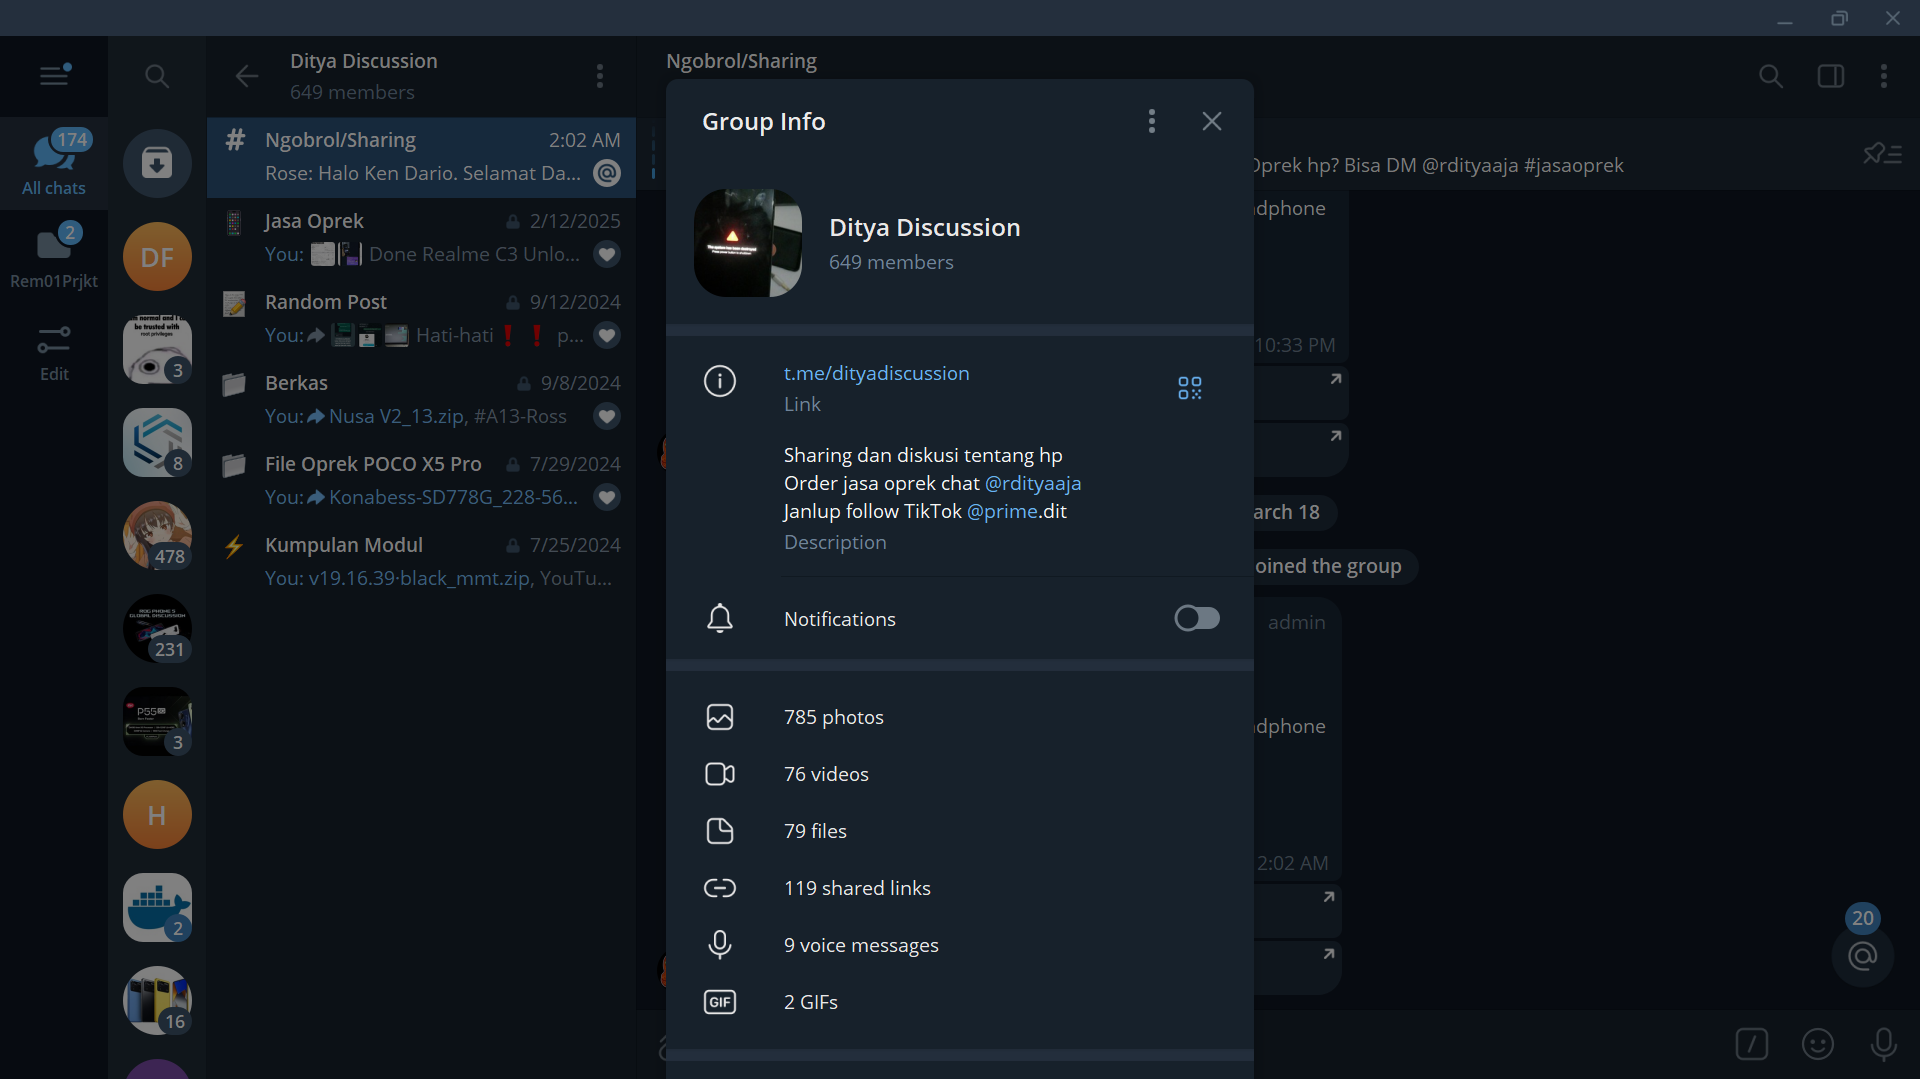
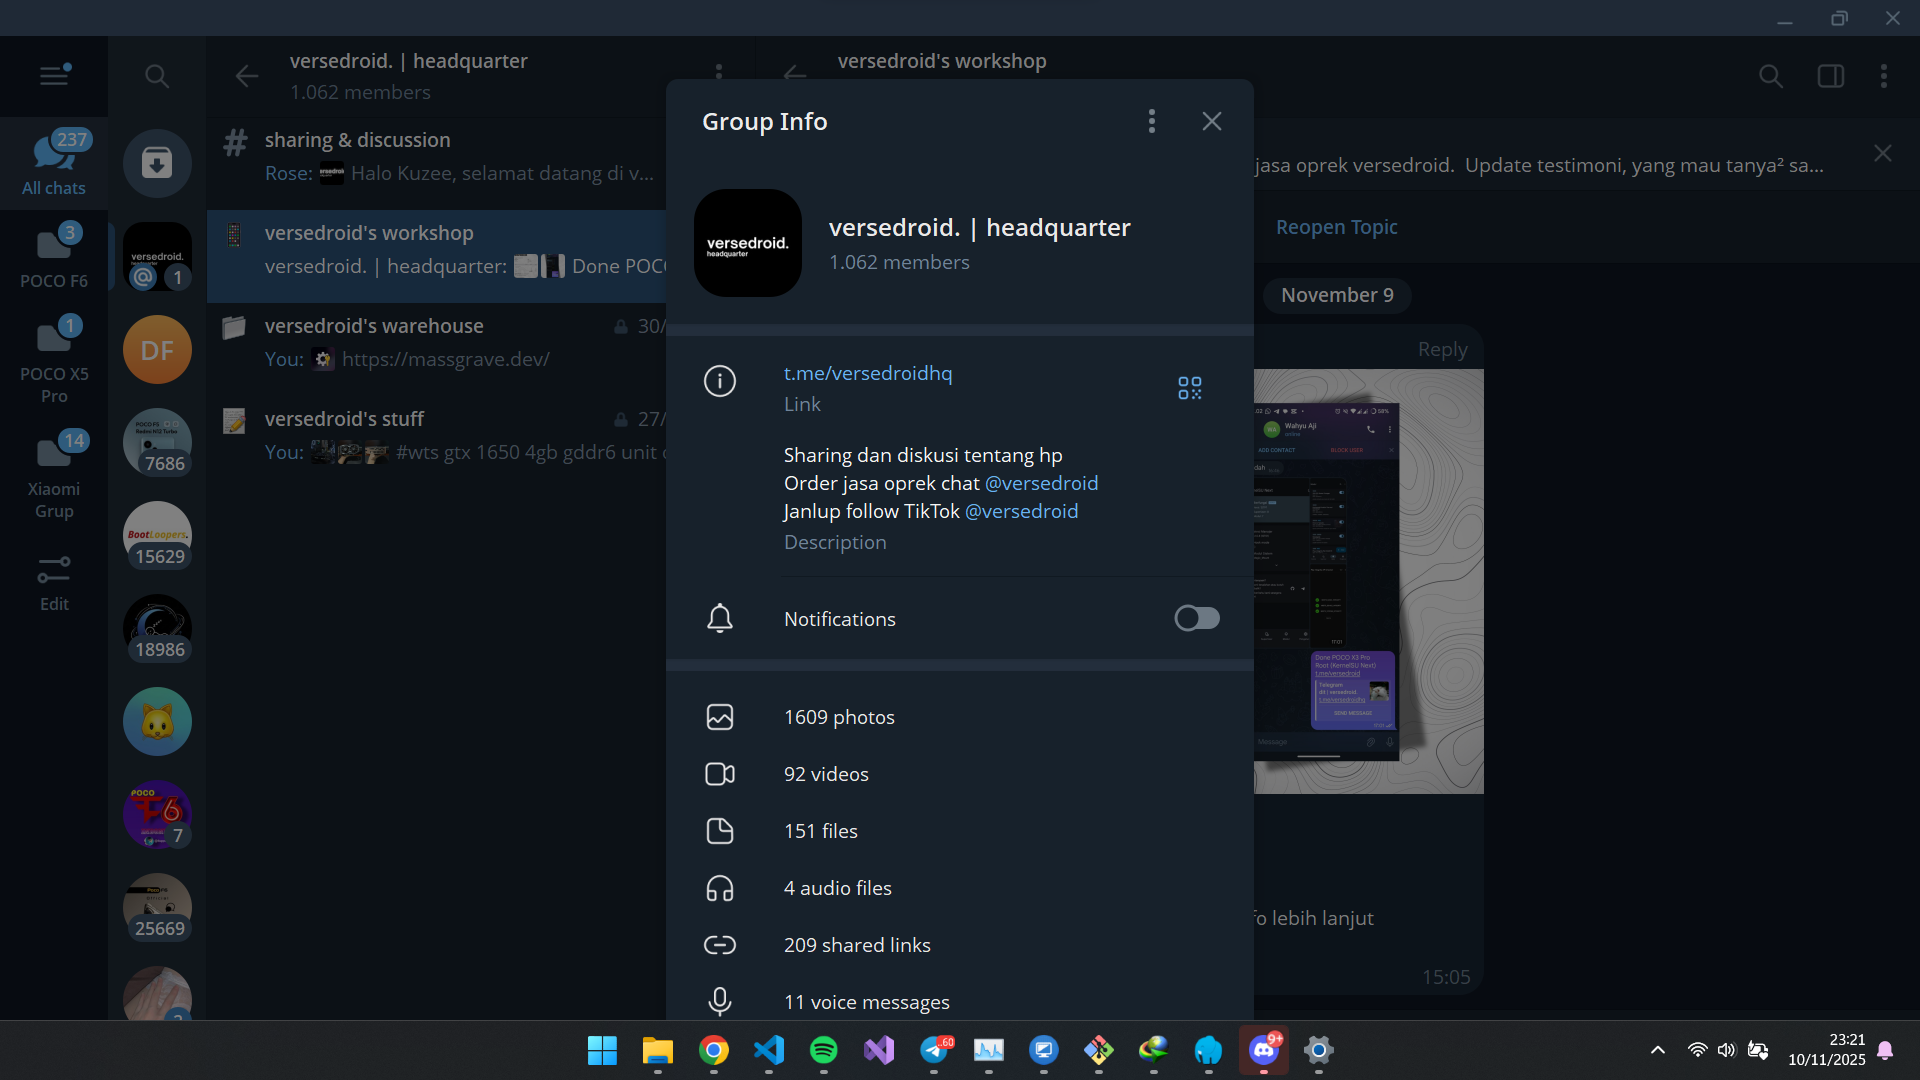
refresh and update

diff --git a/index.html b/index.html
@@ -129,10 +129,10 @@
     <div class="container">
       <div class="flex flex-wrap">
       <div class="w-full self-center px-4">
-          <h1 class="text-xl font-semibold text-indigo-500">Hai Dunia, Saya <span class="text-slate-900 block font-semibold text-5xl mt-1 dark:text-white">Raditya Rizki</span></h1>
-          <h2 class="font-medium text-slate-500 text-lg mb-5 dark:text-slate-500">Mahasiswa | It Implementor | Junior Web Programming</h2>
-          <p class="font-medium text-indigo-400 mb-10 leading-relaxed md:w-1/2">Seseorang yang memiliki minat berkembang di Dunia IT, mari kita bersama-sama belajar dan sharing biar dapet pengalaman baru!</p>
-          <a class="text-base font-semibold text-white bg-indigo-600 py-3 px-8 rounded-full hover:shadow-lg hover:bg-indigo-800 hover:opacity-80 transition duration-300 ease-in-out" href="https://drive.google.com/file/d/1nRiV1oQEp-QKF4ymBJFxlzevyDCtdr5y/view">Download CV!</a>
+          <h1 class="text-xl font-semibold text-indigo-500">Hello World, im <span class="text-slate-900 block font-semibold text-5xl mt-1 dark:text-white">Raditya Rizki Raharja</span></h1>
+          <h2 class="font-medium text-slate-500 text-lg mb-5 dark:text-slate-500">Mahasiswa | Networking | Programming</h2>
+          <p class="font-medium text-indigo-400 mb-10 leading-relaxed md:w-1/2">Seseorang yang memiliki minat berkembang di Dunia Teknologi Informasi , mari kita bersama-sama belajar dan sharing biar dapet pengalaman baru!</p>
+          <a class="text-base font-semibold text-white bg-indigo-600 py-3 px-8 rounded-full hover:shadow-lg hover:bg-indigo-800 hover:opacity-80 transition duration-300 ease-in-out" href="#">GitHub Saya!</a>
     </div>
   
     <!-- About Section -->
@@ -141,7 +141,7 @@
         <div class="flex flex-wrap">
           <div class="w-full px-4 mb-10 lg:w-1/2">
             <h4 class="mb-2 font-bold text-3xl dark:text-white">Tentang Saya</h4>
-            <p class="font-medium text-indigo-500">Hai! Saya Raditya Rizki saya merupakan orang yang baru terjun di dunia IT sebagai IT Implementor dan Web Programming, status saya sebagai Mahasiswa ULBI Prodi D4 Teknik Informatika</p>
+            <p class="font-medium text-indigo-500">Hai! Saya Raditya Rizki saya merupakan orang yang baru terjun di dunia Teknologi Informasi, status saya sebagai Mahasiswa ULBI Prodi D4 Teknik Informatika</p>
           </div>
           <div class="w-full px-4 lg:w-1/2">
             <h3 class="font-bold text-3xl mb-2 lg:text-3xl dark:text-white">Ikuti Saya Disini!</h3>
@@ -158,7 +158,7 @@
               </a>
 
               <!-- Logo Telegram -->
-              <a href="https://t.me/dityadiscussion" target="_blank" class="w-10 h-10 mr-3 rounded-full flex justify-center items-center border border-slate-700 text-indigo-300 dark:bg-slate-700 dark:border-none"> 
+              <a href="https://t.me/versedroid" target="_blank" class="w-10 h-10 mr-3 rounded-full flex justify-center items-center border border-slate-700 text-indigo-300 dark:bg-slate-700 dark:border-none"> 
                 <svg role="img" class="dark:fill-white" width="27px" viewBox="0 0 24 24" xmlns="http://www.w3.org/2000/svg"><title>Telegram</title><path d="M11.944 0A12 12 0 0 0 0 12a12 12 0 0 0 12 12 12 12 0 0 0 12-12A12 12 0 0 0 12 0a12 12 0 0 0-.056 0zm4.962 7.224c.1-.002.321.023.465.14a.506.506 0 0 1 .171.325c.016.093.036.306.02.472-.18 1.898-.962 6.502-1.36 8.627-.168.9-.499 1.201-.82 1.23-.696.065-1.225-.46-1.9-.902-1.056-.693-1.653-1.124-2.678-1.8-1.185-.78-.417-1.21.258-1.91.177-.184 3.247-2.977 3.307-3.23.007-.032.014-.15-.056-.212s-.174-.041-.249-.024c-.106.024-1.793 1.14-5.061 3.345-.48.33-.913.49-1.302.48-.428-.008-1.252-.241-1.865-.44-.752-.245-1.349-.374-1.297-.789.027-.216.325-.437.893-.663 3.498-1.524 5.83-2.529 6.998-3.014 3.332-1.386 4.025-1.627 4.476-1.635z"/></svg>
               </a>
             </div>
@@ -185,7 +185,7 @@
         <h3 class="font-semibold text-xl text-slate-900 dark:text-white mt-5 mb-3">
           Duck vs Obstacles Games
         </h3>
-        <p class="font-medium text-base text-indigo-500">Membuat menggunakan Bahasa pemrogamman Java dan menggunakan framework Greenfoot. Tersedia di Playstore dan <a class="text-black font-semibold" href="https://github.com/rdityaa/ducks-vs-obstacles_Greenfoot-Game" target="_blank">GitHub source code</a></span><a class="font-semibold block px-4 py-2 mt-6 rounded-full bg bg-indigo-600 text-white w-full mx-auto text-center" href="https://play.google.com/store/apps/details?id=com.kxland.ductjoy&pcampaignid=web_share" target="_blank">Download di Playstore!</a>
+        <p class="font-medium text-base text-indigo-500">Membuat menggunakan Bahasa pemrogamman Java dan menggunakan framework Greenfoot. Tersedia di Playstore dan <a class="text-black font-semibold" href="https://github.com/ditlabs/ducks-vs-obstacles_Greenfoot-Game" target="_blank">GitHub source code</a></span><a class="font-semibold block px-4 py-2 mt-6 rounded-full bg bg-indigo-600 text-white w-full mx-auto text-center" href="https://play.google.com/store/apps/details?id=com.kxland.ductjoy&pcampaignid=web_share" target="_blank">Download di Playstore!</a>
       </div>
       <div class="mb-12 p-4 md:w-1/2">
         <div class="rounded-md shadow-md overflow-hidden">
@@ -203,16 +203,16 @@
         <h3 class="font-semibold text-xl text-slate-900 dark:text-white mt-5 mb-3">
           E-Commerce Website
         </h3>
-        <p class="font-medium text-base text-indigo-500">Membuat aplikasi PHP dengan Framework Laravel, AlpineJS, TailwindCSS bertema E-Commerce sederhana tentang toko komputer<a class="font-semibold block px-4 py-2 mt-6 rounded-full bg bg-indigo-600 text-white w-full mx-auto text-center" href="https://github.com/rdityaa/Tugas-Besar-E-commerce-CRUD" target="_blank">Source Code</a></p>
+        <p class="font-medium text-base text-indigo-500">Membuat aplikasi PHP dengan Framework Laravel, AlpineJS, TailwindCSS bertema E-Commerce sederhana tentang toko komputer<a class="font-semibold block px-4 py-2 mt-6 rounded-full bg bg-indigo-600 text-white w-full mx-auto text-center" href="https://github.com/ditlabs/Tugas-Besar-E-commerce-CRUD" target="_blank">Source Code</a></p>
       </div>
       <div class="mb-12 p-4 md:w-1/2">
         <div class="rounded-md shadow-md overflow-hidden">
           <img src="img/image.png" alt="" class="w-full">
         </div>
-        <h3 class="font-semibold text-xl text-slate-900 dark:text-white mt-8 mb-3">
-          Profile Web Design
+        <h3 class="font-semibold text-xl text-slate-900 dark:text-white mt-6 mb-3">
+          Android Services Web-Application
         </h3>
-        <p class="font-medium text-base text-indigo-500">Membuat Website profile yang berisi tentang pribadi dengan HTML, CSS dan Framework CSS Boostrap 5<a class="font-semibold block px-4 py-2 mt-6 rounded-full bg bg-indigo-600 text-white w-full mx-auto text-center" href="https://github.com/rdityaa/rditya.github.io" target="_blank">Source Code</a></p>
+        <p class="font-medium text-base text-indigo-500">Membuat Aplikasi Penyedia jasa Modding Android Berbasis Web dengan Laravel 12<a class="font-semibold block px-4 py-2 mt-6 rounded-full bg bg-indigo-600 text-white w-full mx-auto text-center" href="https://github.com/ditlabs/new-project-1" target="_blank">Source Code</a></p>
       </div>
       </div>
      </section>
@@ -222,8 +222,8 @@
       <div class="container">
         <div class="w-full">
           <div class="mx-auto mb-16 max-w-xl text-center">
-            <h4 class="text-4xl font-semibold mb-2 dark:text-white">Keterampilan</h4>
-            <p class="text-indigo-600 dark:text-indigo-500">Berikut adalah Keterampilan Tools, Framework dan Bahasa Pemrogamman saya</p>
+            <h4 class="text-4xl font-semibold mb-2 dark:text-white">Tech Stack</h4>
+            <p class="text-indigo-600 dark:text-indigo-500">Tech Stack Programming saya</p>
           </div>
         </div>
         <!-- Daftar Skill -->
@@ -258,10 +258,12 @@
         <h1 class="font-medium ml-2 text-indigo-500 dark:text-white">TailwindCSS</h1>
       </div>
 
-      <!-- Bootstrap -->
+      <!-- Python -->
       <div class="h-20 w-full p-4 bg-sky-50 dark:bg-slate-900 border rounded-full shadow-sm flex items-center hover:shadow-md transition-all duration-300 transform hover:scale-[1.05] hover:bg-sky-100 dark:hover:bg-slate-700">
-        <svg role="img" width="56px" fill="#7952B3" viewBox="0 0 24 24" xmlns="http://www.w3.org/2000/svg"><title>Bootstrap</title><path d="M11.77 11.24H9.956V8.202h2.152c1.17 0 1.834.522 1.834 1.466 0 1.008-.773 1.572-2.174 1.572zm.324 1.206H9.957v3.348h2.231c1.459 0 2.232-.585 2.232-1.685s-.795-1.663-2.326-1.663zM24 11.39v1.218c-1.128.108-1.817.944-2.226 2.268-.407 1.319-.463 2.937-.42 4.186.045 1.3-.968 2.5-2.337 2.5H4.985c-1.37 0-2.383-1.2-2.337-2.5.043-1.249-.013-2.867-.42-4.186-.41-1.324-1.1-2.16-2.228-2.268V11.39c1.128-.108 1.819-.944 2.227-2.268.408-1.319.464-2.937.42-4.186-.045-1.3.968-2.5 2.338-2.5h14.032c1.37 0 2.382 1.2 2.337 2.5-.043 1.249.013 2.867.42 4.186.409 1.324 1.098 2.16 2.226 2.268zm-7.927 2.817c0-1.354-.953-2.333-2.368-2.488v-.057c1.04-.169 1.856-1.135 1.856-2.213 0-1.537-1.213-2.538-3.062-2.538h-4.16v10.172h4.181c2.218 0 3.553-1.086 3.553-2.876z"/></svg>
-        <h1 class="font-medium ml-2 text-indigo-500 dark:text-white">Boostrap</h1>
+        <svg xmlns="http://www.w3.org/2000/svg" x="0px" y="0px" width="56" height="56" viewBox="0 0 48 48">
+          <path fill="#0277BD" d="M24.047,5c-1.555,0.005-2.633,0.142-3.936,0.367c-3.848,0.67-4.549,2.077-4.549,4.67V14h9v2H15.22h-4.35c-2.636,0-4.943,1.242-5.674,4.219c-0.826,3.417-0.863,5.557,0,9.125C5.851,32.005,7.294,34,9.931,34h3.632v-5.104c0-2.966,2.686-5.896,5.764-5.896h7.236c2.523,0,5-1.862,5-4.377v-8.586c0-2.439-1.759-4.263-4.218-4.672C27.406,5.359,25.589,4.994,24.047,5z M19.063,9c0.821,0,1.5,0.677,1.5,1.502c0,0.833-0.679,1.498-1.5,1.498c-0.837,0-1.5-0.664-1.5-1.498C17.563,9.68,18.226,9,19.063,9z"></path><path fill="#FFC107" d="M23.078,43c1.555-0.005,2.633-0.142,3.936-0.367c3.848-0.67,4.549-2.077,4.549-4.67V34h-9v-2h9.343h4.35c2.636,0,4.943-1.242,5.674-4.219c0.826-3.417,0.863-5.557,0-9.125C41.274,15.995,39.831,14,37.194,14h-3.632v5.104c0,2.966-2.686,5.896-5.764,5.896h-7.236c-2.523,0-5,1.862-5,4.377v8.586c0,2.439,1.759,4.263,4.218,4.672C19.719,42.641,21.536,43.006,23.078,43z M28.063,39c-0.821,0-1.5-0.677-1.5-1.502c0-0.833,0.679-1.498,1.5-1.498c0.837,0,1.5,0.664,1.5,1.498C29.563,38.32,28.899,39,28.063,39z"></path>
+          </svg>
+        <h1 class="font-medium ml-2 text-indigo-500 dark:text-white">Python</h1>
       </div>
 
       <!-- Laravel -->
@@ -321,7 +323,7 @@
             <h3 class="font-semibold text-2xl text-slate-900 dark:text-white mt-5 mb-3">
               Join custom rom Android community here!
             </h3>
-            <p class="font-medium text-base text-indigo-500">Komunitas Modding Android, Sharing seputar Tips and Trick modding Android, Yuk langsung kepoin aja grupnya dengan gabung di link dibawah ini</span><a class="font-semibold block px-4 py-2 mt-6 rounded-full bg bg-indigo-600 text-white w-full mx-auto text-center" href="https://t.me/dityadiscussion" target="_blank">Join Here</a>
+            <p class="font-medium text-base text-indigo-500">Komunitas Modding Android, Sharing seputar Tips and Trick modding Android, Yuk langsung kepoin aja grupnya dengan gabung di link dibawah ini</span><a class="font-semibold block px-4 py-2 mt-6 rounded-full bg bg-indigo-600 text-white w-full mx-auto text-center" href="https://t.me/versedroidhq" target="_blank">Join Here</a>
           </div>
         </div>
      </section>
